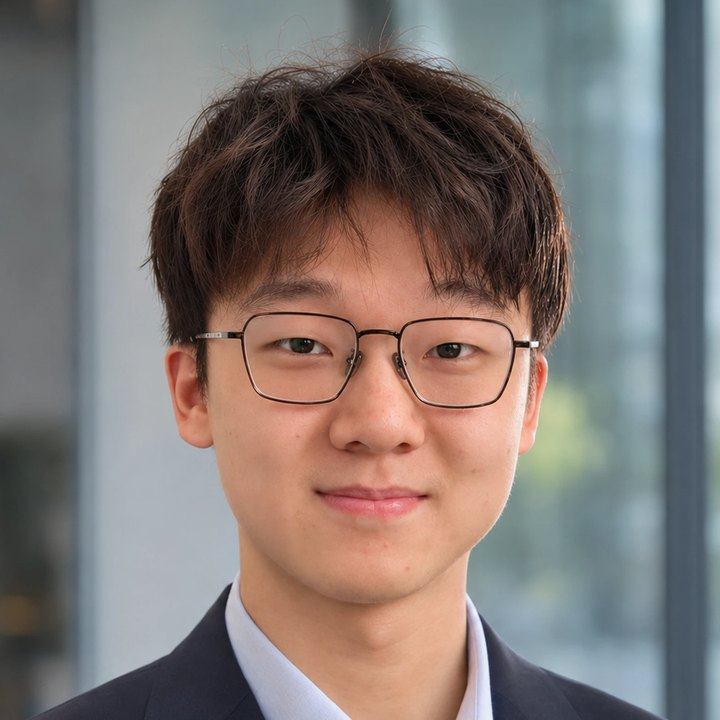
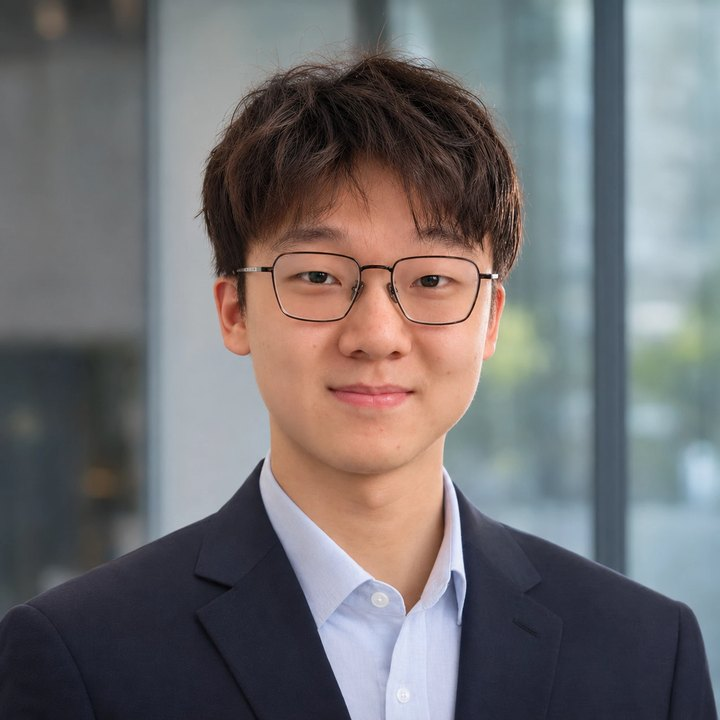
Use uncropped headshot; remove recent-recognition card

diff --git a/index.html b/index.html
@@ -227,10 +227,9 @@ footer{margin-top:32px;padding:24px 0 40px;border-top:1px solid var(--line);font
     <div class="peek-card" id="peek-automate"><div class="peek-head">Automate analysis</div>Multi-agent systems that turn natural-language requests into validated epigenomic analyses, scripts, and reports.<div class="peek-rel">See <a href="#pub-chromapilot">ChromaPilot</a></div></div>
   </div>
 
-  <div class="status">
+  <div class="status todo-only"><!-- remove todo-only once the Next card is filled in -->
     <!-- TODO: what's next (e.g. PhD applications, internship, graduation plans) -->
     <div class="stat todo-only"><span class="stat-ic"><svg viewBox="0 0 24 24" fill="none" stroke="currentColor" stroke-width="1.8" stroke-linecap="round" stroke-linejoin="round" aria-hidden="true"><path d="M21.5 2.5 10.5 13.5"/><path d="M21.5 2.5 14.5 21.5l-4-8-8-4z"/></svg></span><div><div class="stat-k">Next</div><div class="stat-v"><span class="todo">to be added</span></div></div></div>
-    <div class="stat"><span class="stat-ic"><svg viewBox="0 0 24 24" fill="none" stroke="currentColor" stroke-width="1.8" stroke-linecap="round" stroke-linejoin="round" aria-hidden="true"><circle cx="12" cy="9" r="6"/><path d="M8.5 13.8 7 22l5-3 5 3-1.5-8.2"/></svg></span><div><div class="stat-k">Recent recognition</div><div class="stat-v">Second Best Overall Poster, <a href="https://ai.jhu.edu/event/data-science-and-ai-institute-fall-2026-symposium-artificial-intelligence-and-human-learning/" target="_blank" rel="noopener noreferrer">JHU DSAI Fall 2026 Symposium</a></div></div></div>
   </div>
 </section>
 
